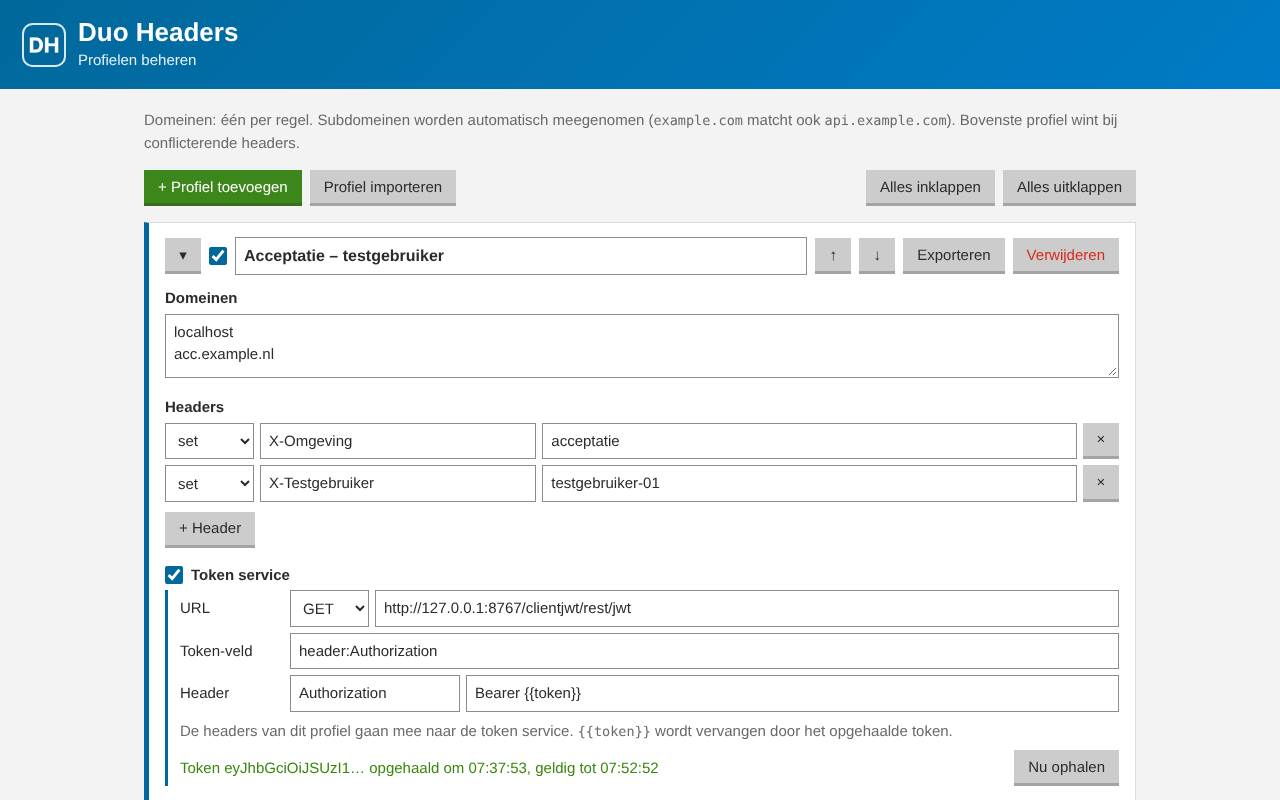
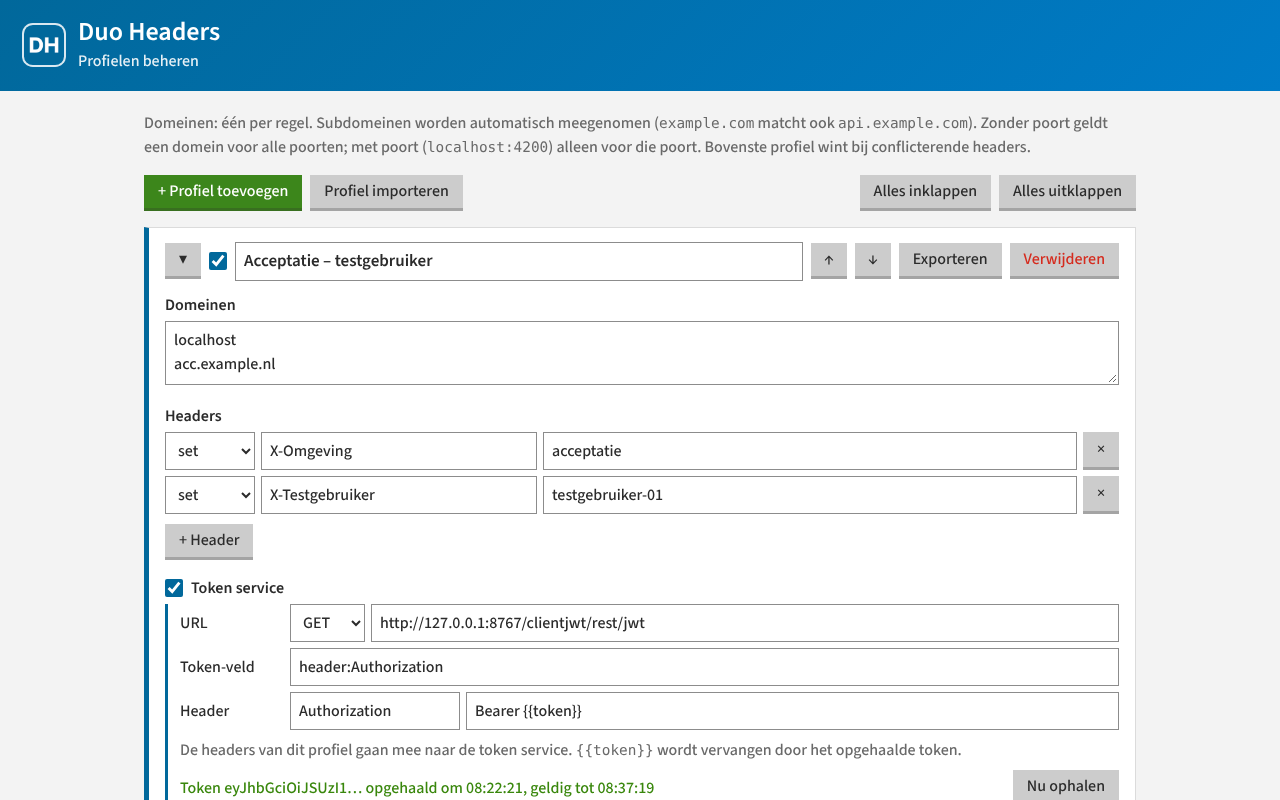
Source Sans 3 meeleveren als vervanger van RijksoverheidSans
Zonder geïnstalleerd RijksoverheidSans viel de opmaak terug op
Helvetica/Arial, wat iel oogde naast duo.nl. Source Sans 3 (SIL OFL)
lijkt qua vorm en breedte het meest op RijksoverheidSans; gewicht
500/600 komt overeen met de dikte van RO Sans regular/bold.
RijksoverheidSans gaat voor als het geïnstalleerd is. Basisgrootte
naar 16px; store-afbeeldingen opnieuw gegenereerd.

Claude-Session: https://claude.ai/code/session_01MPcZxuXYKUSGzJvH8omSGH

diff --git a/src/styles.css b/src/styles.css
@@ -1,10 +1,29 @@
+/* Source Sans 3 (SIL OFL, zie fonts/OFL-source-sans-3.txt) als vervanger van RijksoverheidSans,
+   dat niet meegeleverd mag worden. Iets zwaardere gewichten (500/600) zodat de dikte overeenkomt
+   met RijksoverheidSans regular/bold. */
+@font-face {
+  font-family: "Duo Headers Sans";
+  src: url("fonts/source-sans-3-latin-500-normal.woff2") format("woff2");
+  font-weight: 400;
+  font-style: normal;
+  font-display: swap;
+}
+@font-face {
+  font-family: "Duo Headers Sans";
+  src: url("fonts/source-sans-3-latin-600-normal.woff2") format("woff2");
+  font-weight: 700;
+  font-style: normal;
+  font-display: swap;
+}
+
 /* Huisstijl afgeleid van duo.nl (Rijkshuisstijl): RijksoverheidSans, #2b2b2b op #f3f3f3,
    witte vlakken, rechte hoeken, grijze knoppen met donkere onderrand en groene primaire knop.
-   Het font zelf wordt niet meegeleverd (licentie); waar het geïnstalleerd is wordt het gebruikt. */
+   RijksoverheidSans wordt niet meegeleverd (licentie); waar het geïnstalleerd is wordt het gebruikt,
+   anders Source Sans 3 (hierboven). */
 
 :root {
   color-scheme: light dark;
-  --font: "RijksoverheidSans", "RijksoverheidSansText", "RO Sans", "RijksoverheidSansWebText", Helvetica, Arial, sans-serif;
+  --font: "RijksoverheidSans", "RijksoverheidSansText", "RO Sans", "RijksoverheidSansWebText", "Duo Headers Sans", Helvetica, Arial, sans-serif;
   --mono: ui-monospace, "Cascadia Mono", Consolas, monospace;
 
   --bg: #f3f3f3;
@@ -69,7 +88,7 @@ body {
   margin: 0;
   background: var(--bg);
   color: var(--text);
-  font: 15px/1.5 var(--font);
+  font: 16px/1.5 var(--font);
   accent-color: var(--brand);
 }
 a { color: var(--link); }
@@ -149,7 +168,7 @@ main { max-width: 1040px; margin: 0 auto; padding: 20px 24px 40px; }
 }
 .profile.is-enabled { border-left-color: var(--brand); }
 .profile header { display: flex; gap: 8px; align-items: center; margin-bottom: 10px; }
-.profile header .name { flex: 1; font-weight: 700; font-size: 16px; }
+.profile header .name { flex: 1; font-weight: 700; font-size: 17px; }
 .profile label.block { display: block; margin: 12px 0 4px; font-weight: 700; }
 .profile textarea.domains { width: 100%; min-height: 64px; }
 .profile .add-header { margin-top: 4px; }

diff --git a/README.md b/README.md
@@ -69,7 +69,8 @@ Bij conflicterende headers wint het profiel dat hoger in de lijst staat.
 De opmaak volgt duo.nl (Rijkshuisstijl): kleuren `#2b2b2b` op `#f3f3f3`, lintblauw `#01689b`, hemelblauw `#007bc7`,
 donkerblauw `#154273`, grijze knoppen en groene primaire knop, rechte hoeken. Licht/donker volgt de instelling van het
 systeem/Chrome. Het font RijksoverheidSans wordt **niet** meegeleverd (licentie); staat het op de computer geïnstalleerd,
-dan wordt het gebruikt, anders Helvetica/Arial (zoals op duo.nl). Alle kleuren staan als variabelen bovenin `src/styles.css`.
+dan wordt het gebruikt. Anders wordt het meegeleverde Source Sans 3 gebruikt (SIL Open Font License,
+`src/fonts/`), in iets zwaardere gewichten zodat het qua dikte en breedte op RijksoverheidSans lijkt. Alle kleuren staan als variabelen bovenin `src/styles.css`.
 
 ## Hoe het werkt
 
